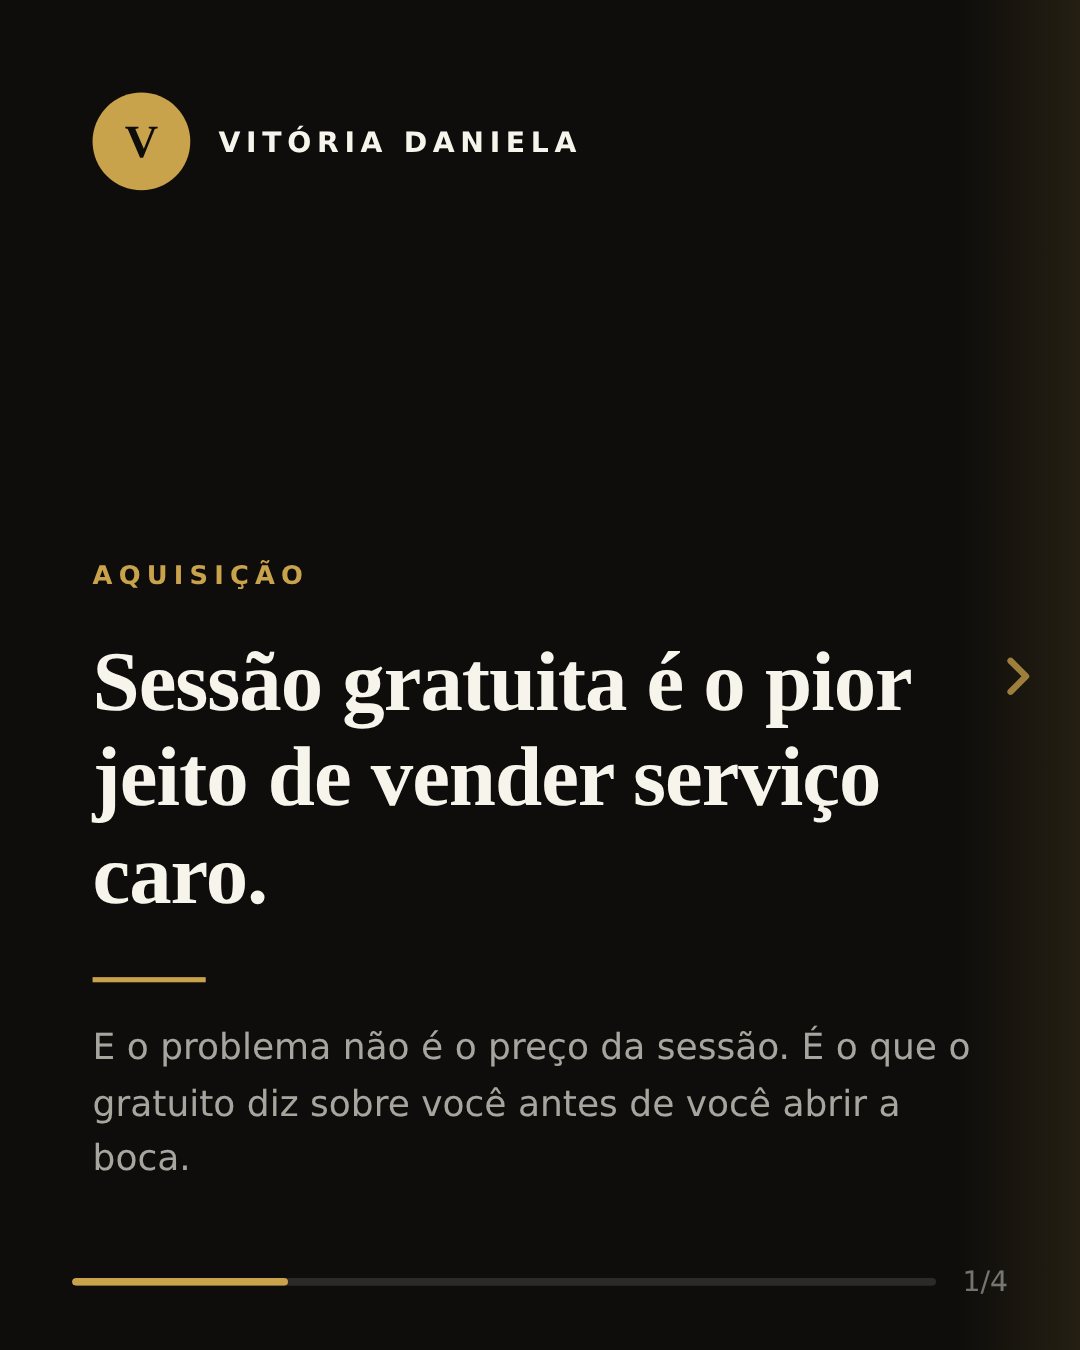
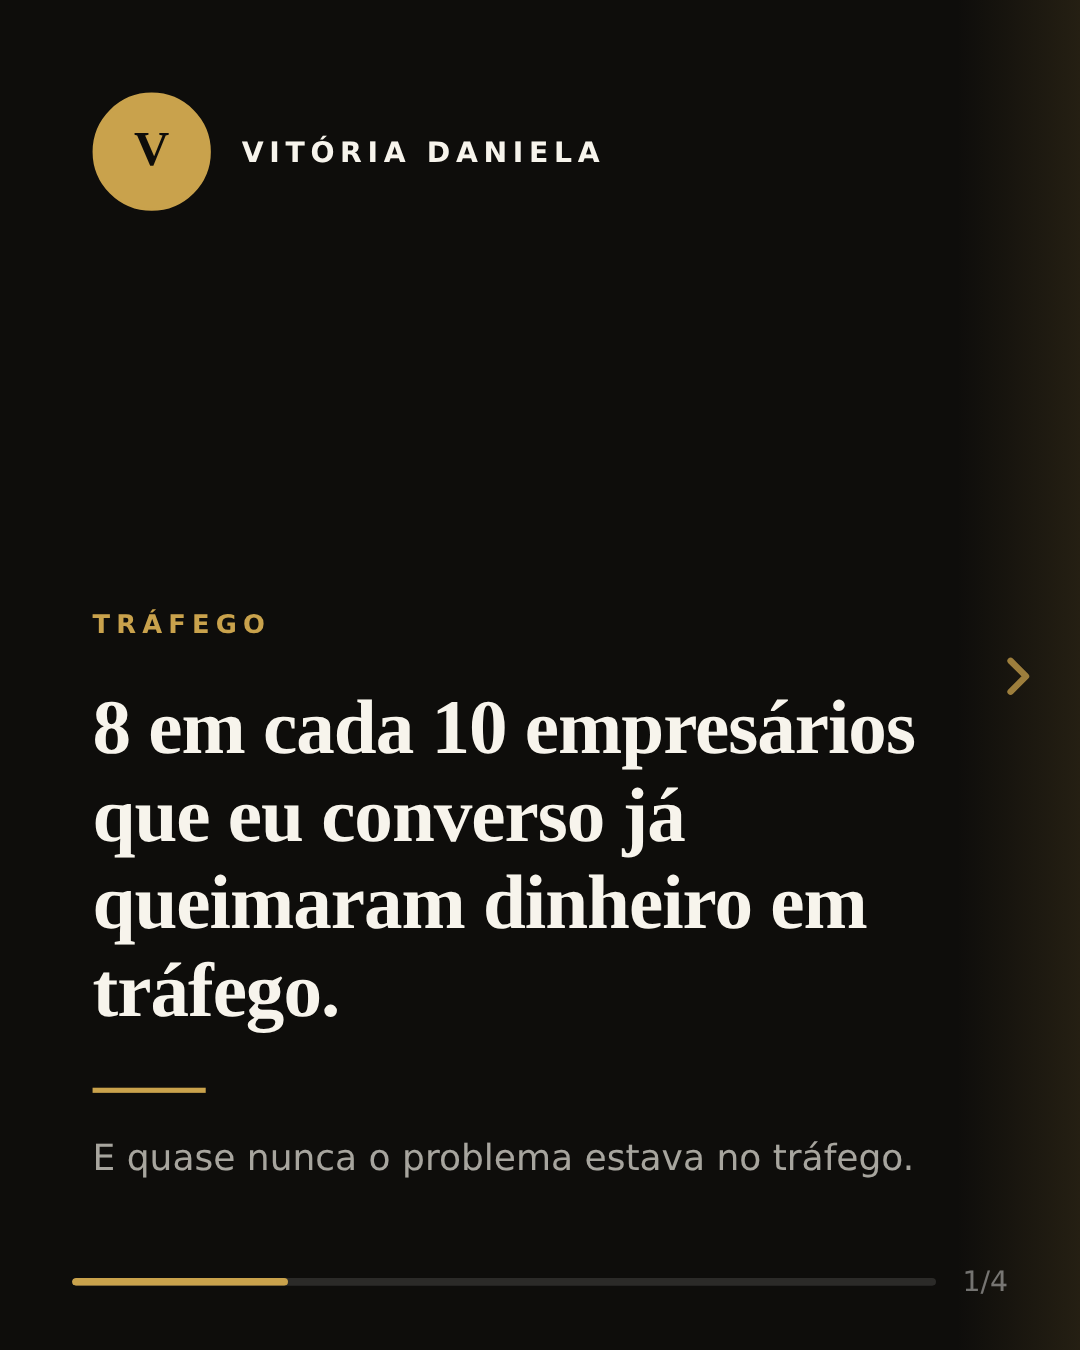
Vitoria Daniela: reescreve o carrossel com as analogias dela e prepara a foto
A primeira versao carregava a analogia da loja de doces, que veio emprestada
da referencia. Trocada pelas metaforas que a propria Vitoria usa na pagina do
Metodo Magna, que sao mais fortes e ja sao voz dela:

- card 2 passa a usar a torneira aberta com vazamentos, nomeando um a um onde
  o dinheiro vaza (perfil, mensagem sem resposta, proposta parada)
- card 3 usa o hospital com o brace sangrando pra sustentar a ordem
  "primeiro se estanca, depois se escala"
- card 1 abre com o dado dela: 8 em cada 10 empresarios ja queimaram dinheiro
  em trafego
- card 4 passa a descrever o funil real dela (aplicacao com analise pessoal em
  menos de 24h) no lugar do diagnostico generico da referencia

O lockup agora aceita a foto dela: basta salvar `foto-vitoria.jpg` na pasta e
reexportar. Sem o arquivo, o onerror remove a img e sobra a inicial, entao a
peca nunca quebra.

Claude-Session: https://claude.ai/code/session_013Sa3HLQHYweprDFbfMtnWK

diff --git a/clientes/vitoria-daniela/copy/2026-08-06-carrossel-sessao-gratuita/carrossel.html b/clientes/vitoria-daniela/copy/2026-08-06-carrossel-sessao-gratuita/carrossel.html
@@ -3,13 +3,17 @@
 <head>
 <meta charset="utf-8">
 <meta name="viewport" content="width=device-width, initial-scale=1">
-<title>Carrossel Vitória Daniela — Sessão gratuita</title>
+<title>Carrossel Vitória Daniela — Onde o dinheiro do tráfego vaza</title>
 
 <!--
   CARROSSEL 4 CARDS · VITÓRIA DANIELA · preto e dourado
-  Tema: por que sessão gratuita é o pior funil para vender serviço caro.
-  Estrutura modelada na referência (gancho de opinião, analogia do mundo real,
-  princípio, CTA), revozeada nas Diretrizes de Escrita da Vitória.
+  Tema: 8 em cada 10 já queimaram dinheiro com tráfego, e o problema não era o tráfego.
+  Analogias e números tirados da própria página do Método Magna.
+
+  FOTO: basta salvar o arquivo `foto-vitoria.jpg` nesta pasta.
+  Se o arquivo existir, ele entra sozinho no lockup. Se não existir, o lockup
+  cai na inicial "V" automaticamente (o onerror remove a img).
+
   Exportar: python3 exportar-slides.py carrossel.html slides/
 -->
 
@@ -23,7 +27,7 @@
 
   .ig-frame { width:420px; background:#fff; border-radius:12px; box-shadow:0 4px 24px rgba(0,0,0,.10); overflow:hidden; }
   .ig-header { display:flex; align-items:center; gap:10px; padding:12px 14px; border-bottom:1px solid #EFEFEF; }
-  .ig-avatar { width:34px; height:34px; border-radius:50%; display:flex; align-items:center; justify-content:center; color:#C9A24C; font-weight:700; font-size:15px; flex-shrink:0; font-family:'Playfair Display',serif; }
+  .ig-avatar { width:34px; height:34px; border-radius:50%; overflow:hidden; display:flex; align-items:center; justify-content:center; color:#C9A24C; font-weight:700; font-size:15px; flex-shrink:0; font-family:'Playfair Display',serif; position:relative; }
   .ig-handle { font-size:13px; font-weight:600; color:#111; line-height:1.3; }
   .ig-sub { font-size:11px; color:#8E8E8E; line-height:1.3; }
 
@@ -75,24 +79,27 @@
 </div>
 
 <script>
-/* ====================== MARCA: preto e dourado ====================== */
+/* ====================== MARCA ====================== */
 const BRAND = {
   nome:    'VITÓRIA DANIELA',
-  handle:  '@vitoriadaniela',      // CONFIRMAR o @ real (não aparece nos PNGs, só no preview)
+  handle:  '@vitoriadaniela',      // CONFIRMAR (não sai nos PNGs, só no preview)
   inicial: 'V',
 
-  primary:     '#C9A24C',   // dourado
-  light:       '#E6C87F',   // dourado claro
-  dark:        '#7A5E1E',   // dourado escuro
-  lightBg:     '#F4F0E6',   // creme quente
+  primary:     '#C9A24C',
+  light:       '#E6C87F',
+  dark:        '#7A5E1E',
+  lightBg:     '#F4F0E6',
   lightBorder: '#E2DAC8',
-  darkBg:      '#0E0D0B',   // preto quente
-  tintaEscura: '#2A2007',   // texto sobre o dourado
+  darkBg:      '#0E0D0B',
+  tintaEscura: '#2A2007',
 };
+
+/* Foto do lockup. Salve `foto-vitoria.jpg` nesta pasta e ela entra sozinha. */
+const FOTO = 'foto-vitoria.jpg';
 
 const LEGENDA = {
   sub:   'Carrossel · 4 cards',
-  texto: 'Sessão gratuita não filtra, convoca. E depois a culpa cai no comercial.',
+  texto: 'O dinheiro não some no anúncio. Ele vaza depois dele.',
 };
 
 const GRADIENTE = `linear-gradient(165deg, ${BRAND.dark} 0%, ${BRAND.primary} 52%, ${BRAND.light} 100%)`;
@@ -113,27 +120,31 @@ function titulo(texto, fundo, tamanho) {
   return `<h2 class="serif" style="font-size:${tamanho || 32}px;font-weight:600;letter-spacing:-0.4px;line-height:1.14;color:${cor};">${texto}</h2>`;
 }
 
-function paragrafo(texto, fundo) {
+function paragrafo(texto, fundo, margemTopo) {
   const cor = fundo === 'light' ? '#6A6152'
             : fundo === 'dark'  ? 'rgba(247,244,236,0.66)'
             : 'rgba(42,32,7,0.78)';
-  return `<p class="sans" style="font-size:14px;font-weight:400;line-height:1.54;color:${cor};margin-top:16px;">${texto}</p>`;
+  return `<p class="sans" style="font-size:14px;font-weight:400;line-height:1.54;color:${cor};margin-top:${margemTopo || 16}px;">${texto}</p>`;
 }
 
-/** Lockup da marca. */
+/**
+ * Lockup com a foto dela. Se `foto-vitoria.jpg` não existir na pasta, o
+ * onerror remove a img e sobra a inicial no círculo dourado.
+ */
 function lockup(fundo) {
   const corTexto  = fundo === 'light' ? BRAND.darkBg : fundo === 'dark' ? '#F7F4EC' : BRAND.tintaEscura;
   const fundoCirc = fundo === 'gradient' ? BRAND.darkBg : BRAND.primary;
   const corInic   = fundo === 'gradient' ? BRAND.primary : BRAND.darkBg;
-  return `<div style="display:flex;align-items:center;gap:11px;">
-    <div style="width:38px;height:38px;border-radius:50%;background:${fundoCirc};display:flex;align-items:center;justify-content:center;flex-shrink:0;">
-      <span class="serif" style="font-size:18px;font-weight:600;color:${corInic};">${BRAND.inicial}</span>
+  const anel      = fundo === 'gradient' ? BRAND.darkBg : BRAND.primary;
+  return `<div style="display:flex;align-items:center;gap:12px;">
+    <div style="position:relative;width:46px;height:46px;border-radius:50%;overflow:hidden;flex-shrink:0;background:${fundoCirc};border:1.5px solid ${anel};display:flex;align-items:center;justify-content:center;">
+      <span class="serif" style="font-size:19px;font-weight:600;color:${corInic};">${BRAND.inicial}</span>
+      <img src="${FOTO}" onerror="this.remove()" style="position:absolute;inset:0;width:100%;height:100%;object-fit:cover;object-position:center 18%;">
     </div>
     <span class="sans" style="font-size:11px;font-weight:600;letter-spacing:2.2px;color:${corTexto};">${BRAND.nome}</span>
   </div>`;
 }
 
-/** Filete dourado, usado como respiro entre gancho e desenvolvimento. */
 function filete(fundo) {
   const cor = fundo === 'gradient' ? 'rgba(42,32,7,0.28)' : BRAND.primary;
   return `<div style="width:44px;height:2px;background:${cor};margin:20px 0 0;"></div>`;
@@ -143,14 +154,12 @@ function botaoCta(texto) {
   return `<div class="sans" style="display:inline-flex;align-items:center;gap:8px;padding:13px 26px;background:${BRAND.darkBg};color:${BRAND.primary};font-weight:600;font-size:13.5px;border-radius:28px;letter-spacing:.2px;">${texto}</div>`;
 }
 
-/* --- Elementos obrigatórios --- */
-
 function barraProgresso(indice, total, fundo) {
   const pct = ((indice + 1) / total) * 100;
   let corTrilho, corPreench, corRotulo;
-  if (fundo === 'light')        { corTrilho='rgba(0,0,0,0.08)';        corPreench=BRAND.primary; corRotulo='rgba(0,0,0,0.32)'; }
-  else if (fundo === 'dark')    { corTrilho='rgba(255,255,255,0.12)';  corPreench=BRAND.primary; corRotulo='rgba(255,255,255,0.42)'; }
-  else                          { corTrilho='rgba(42,32,7,0.18)';      corPreench=BRAND.darkBg;  corRotulo='rgba(42,32,7,0.5)'; }
+  if (fundo === 'light')     { corTrilho='rgba(0,0,0,0.08)';       corPreench=BRAND.primary; corRotulo='rgba(0,0,0,0.32)'; }
+  else if (fundo === 'dark') { corTrilho='rgba(255,255,255,0.12)'; corPreench=BRAND.primary; corRotulo='rgba(255,255,255,0.42)'; }
+  else                       { corTrilho='rgba(42,32,7,0.18)';     corPreench=BRAND.darkBg;  corRotulo='rgba(42,32,7,0.5)'; }
   return `<div style="position:absolute;bottom:0;left:0;right:0;padding:16px 28px 20px;z-index:10;display:flex;align-items:center;gap:10px;">
     <div style="flex:1;height:3px;background:${corTrilho};border-radius:2px;overflow:hidden;">
       <div style="height:100%;width:${pct}%;background:${corPreench};border-radius:2px;"></div>
@@ -172,50 +181,50 @@ function setaSwipe(fundo) {
 /* ====================== OS 4 CARDS ====================== */
 const SLIDES = [
 
-  /* 1 — GANCHO: opinião polêmica. Sem ele os outros não existem. */
+  /* 1 — GANCHO: o dado dela, virado em confronto. */
   { fundo: 'dark', corpo: `
     <div class="slide-content" style="justify-content:space-between;padding:36px 36px 62px;">
       ${lockup('dark')}
       <div>
-        ${tag('AQUISIÇÃO', 'dark')}
-        ${titulo('Sessão gratuita é o pior jeito de vender serviço caro.', 'dark', 33)}
+        ${tag('TRÁFEGO', 'dark')}
+        ${titulo('8 em cada 10 empresários que eu converso já queimaram dinheiro em tráfego.', 'dark', 30)}
         ${filete('dark')}
-        ${paragrafo('E o problema não é o preço da sessão. É o que o gratuito diz sobre você antes de você abrir a boca.', 'dark')}
+        ${paragrafo('E quase nunca o problema estava no tráfego.', 'dark')}
       </div>
     </div>
   `},
 
-  /* 2 — ANALOGIA do mundo real (negócio e dinheiro, como a Diretriz manda). */
+  /* 2 — ANALOGIA DELA: a torneira aberta com vazamentos (está no site). */
   { fundo: 'light', corpo: `
     <div class="slide-content" style="justify-content:flex-end;padding:0 36px 62px;">
-      ${tag('PENSA COMIGO', 'light')}
-      ${titulo('Uma loja de doces dá degustação. E vende um doce de 20 reais.', 'light', 30)}
-      ${paragrafo('Agora imagine um restaurante premium parando gente na calçada com prato de graça.', 'light')}
-      <p class="serif" style="font-size:17px;line-height:1.35;color:${BRAND.dark};font-style:italic;margin-top:18px;">Ninguém desconfia da degustação. Todo mundo desconfia do banquete.</p>
+      ${tag('ONDE O DINHEIRO SOME', 'light')}
+      ${titulo('Anúncio sem estrutura é torneira aberta em cano furado.', 'light', 31)}
+      ${paragrafo('O dinheiro entra pelo anúncio e vaza no caminho. Vaza no perfil que não sustenta a promessa, na mensagem que ninguém responde a tempo, na proposta que fica sem resposta.', 'light')}
+      <p class="serif" style="font-size:17px;line-height:1.35;color:${BRAND.dark};font-style:italic;margin-top:18px;">Você não tem problema de volume. Você tem vazamento.</p>
     </div>
   `},
 
-  /* 3 — CONFRONTO: o diagnóstico, construído junto e sem colo. */
+  /* 3 — PRINCÍPIO: a ordem certa, com a analogia do hospital que ela usa. */
   { fundo: 'dark', corpo: `
     <div class="slide-content" style="justify-content:flex-end;padding:0 36px 62px;">
-      ${tag('O QUE ACONTECE', 'dark')}
-      ${titulo('Grátis não filtra. Grátis convoca.', 'dark', 34)}
+      ${tag('A ORDEM CERTA', 'dark')}
+      ${titulo('Primeiro se estanca. Depois se escala.', 'dark', 34)}
       ${filete('dark')}
-      ${paragrafo('Sua agenda enche de gente que gostou de conversar, não de gente que decidiu resolver.', 'dark')}
-      ${paragrafo('Aí a culpa cai no comercial, no tráfego, no algoritmo. Mas ela começou no anúncio.', 'dark')}
+      ${paragrafo('Ninguém chega no hospital com o braço sangrando e começa treinando condicionamento. Estanca, estabiliza, e só então pensa em performance.', 'dark')}
+      ${paragrafo('Verba a mais em cima de estrutura furada não corrige nada. Só acelera o prejuízo.', 'dark', 12)}
     </div>
   `},
 
-  /* 4 — VIRADA + CTA lógica. Sem seta, barra em 100%. */
+  /* 4 — VIRADA + CTA: o funil real dela (aplicação, análise pessoal em 24h). */
   { fundo: 'gradient', corpo: `
     <div class="slide-content" style="justify-content:space-between;padding:36px 36px 62px;">
       ${lockup('gradient')}
       <div>
-        ${tag('A VIRADA', 'gradient')}
-        ${titulo('O que qualifica não é o preço. É o esforço de entrada.', 'gradient', 30)}
-        ${paragrafo('Quem preenche um formulário, escreve sobre o próprio negócio e espera retorno já decidiu que quer resolver. Quem clica em "agenda grátis" ainda está passeando.', 'gradient')}
-        <div style="margin-top:24px;">
-          ${botaoCta('Deixei o link nos comentários')}
+        ${tag('O PRÓXIMO PASSO', 'gradient')}
+        ${titulo('O primeiro passo não é investir mais. É saber onde está vazando.', 'gradient', 29)}
+        ${paragrafo('Eu analiso pessoalmente cada aplicação e devolvo o direcionamento em menos de 24h. Não é sessão genérica, é leitura do seu momento e dos próximos passos.', 'gradient')}
+        <div style="margin-top:22px;">
+          ${botaoCta('Deixei o link da aplicação nos comentários')}
         </div>
       </div>
     </div>
@@ -246,7 +255,8 @@ track.innerHTML = SLIDES.map(renderSlide).join('');
 
 const avatar = document.getElementById('igAvatar');
 avatar.style.background = BRAND.darkBg;
-avatar.textContent = BRAND.inicial;
+avatar.innerHTML = `<span>${BRAND.inicial}</span>
+  <img src="${FOTO}" onerror="this.remove()" style="position:absolute;inset:0;width:100%;height:100%;object-fit:cover;object-position:center 18%;">`;
 document.getElementById('igHandle').textContent = BRAND.handle;
 document.getElementById('igSub').textContent = LEGENDA.sub;
 document.getElementById('igCaption').innerHTML =

diff --git a/clientes/vitoria-daniela/copy/2026-08-06-carrossel-sessao-gratuita/copy.md b/clientes/vitoria-daniela/copy/2026-08-06-carrossel-sessao-gratuita/copy.md
@@ -1,4 +1,4 @@
-# Carrossel: sessão gratuita é o pior jeito de vender serviço caro
+# Carrossel: onde o dinheiro do tráfego vaza
 
 **Data:** 2026-08-06 · **Formato:** carrossel 4 cards, 1080x1350 · **Identidade:** preto e dourado
 **Arquivos:** `carrossel.html` (fonte editável) · `slides/slide_1..4.png` (prontos pra postar)
@@ -8,101 +8,96 @@
 ## Os 4 cards
 
 ### Card 1 · preto
-**Tag:** AQUISIÇÃO
-**Título:** Sessão gratuita é o pior jeito de vender serviço caro.
-**Corpo:** E o problema não é o preço da sessão. É o que o gratuito diz sobre você antes de você abrir a boca.
+**Tag:** TRÁFEGO
+**Título:** 8 em cada 10 empresários que eu converso já queimaram dinheiro em tráfego.
+**Corpo:** E quase nunca o problema estava no tráfego.
 
 ### Card 2 · creme
-**Tag:** PENSA COMIGO
-**Título:** Uma loja de doces dá degustação. E vende um doce de 20 reais.
-**Corpo:** Agora imagine um restaurante premium parando gente na calçada com prato de graça.
-**Remate:** *Ninguém desconfia da degustação. Todo mundo desconfia do banquete.*
+**Tag:** ONDE O DINHEIRO SOME
+**Título:** Anúncio sem estrutura é torneira aberta em cano furado.
+**Corpo:** O dinheiro entra pelo anúncio e vaza no caminho. Vaza no perfil que não sustenta a promessa, na mensagem que ninguém responde a tempo, na proposta que fica sem resposta.
+**Remate:** *Você não tem problema de volume. Você tem vazamento.*
 
 ### Card 3 · preto
-**Tag:** O QUE ACONTECE
-**Título:** Grátis não filtra. Grátis convoca.
-**Corpo:** Sua agenda enche de gente que gostou de conversar, não de gente que decidiu resolver.
-Aí a culpa cai no comercial, no tráfego, no algoritmo. Mas ela começou no anúncio.
+**Tag:** A ORDEM CERTA
+**Título:** Primeiro se estanca. Depois se escala.
+**Corpo:** Ninguém chega no hospital com o braço sangrando e começa treinando condicionamento. Estanca, estabiliza, e só então pensa em performance.
+Verba a mais em cima de estrutura furada não corrige nada. Só acelera o prejuízo.
 
 ### Card 4 · dourado
-**Tag:** A VIRADA
-**Título:** O que qualifica não é o preço. É o esforço de entrada.
-**Corpo:** Quem preenche um formulário, escreve sobre o próprio negócio e espera retorno já decidiu que quer resolver. Quem clica em "agenda grátis" ainda está passeando.
-**CTA:** Deixei o link nos comentários
+**Tag:** O PRÓXIMO PASSO
+**Título:** O primeiro passo não é investir mais. É saber onde está vazando.
+**Corpo:** Eu analiso pessoalmente cada aplicação e devolvo o direcionamento em menos de 24h. Não é sessão genérica, é leitura do seu momento e dos próximos passos.
+**CTA:** Deixei o link da aplicação nos comentários
 
 ---
 
 ## Legenda do post
 
-> Sessão gratuita é o pior jeito de vender serviço caro.
+> 8 em cada 10 empresários que eu converso já queimaram dinheiro em tráfego.
 >
-> Não é sobre o valor da sessão. É sobre o que o gratuito comunica.
+> E quase nunca o problema estava no tráfego.
 >
-> Degustação funciona para decisão barata. Você prova um doce e decide na hora, com 20 reais no bolso. Ninguém precisa confiar em ninguém para isso.
+> O mercado vendeu a ideia de que basta rodar anúncio ou postar todo dia. Aí a pessoa aumenta a verba, o alcance sobe, o custo por lead até melhora, e a venda não vem.
 >
-> Serviço caro não funciona assim. A pessoa não compra o que você faz, ela compra a certeza de que você resolve. E certeza não se entrega na porta de entrada, se constrói antes.
+> Porque o dinheiro não some no anúncio. Ele vaza depois dele.
 >
-> Quando a porta é grátis e aberta, ela enche. Só que enche de quem gostou da ideia de conversar.
+> Vaza no perfil que promete uma coisa e mostra outra. Vaza na mensagem que fica três dias sem resposta. Vaza na proposta enviada que ninguém retomou. Anúncio sem estrutura é torneira aberta em cano furado, você paga pela água que nunca chega no balde.
 >
-> Aí você olha pra agenda cheia, pro custo por lead ótimo, e pra nenhuma venda. E conclui que o problema é o comercial.
+> E a saída não é abrir mais a torneira.
 >
-> O problema começou no anúncio.
+> Ninguém chega no hospital com o braço sangrando e começa treinando condicionamento. Primeiro se estanca o sangue, depois se estabiliza, e só então se pensa em performance. Com negócio é igual. Escalar em cima de estrutura furada não corrige nada, só acelera o prejuízo.
 >
-> O que qualifica não é o preço que você cobra. É o esforço que a pessoa aceita fazer pra chegar até você. Quem preenche, escreve sobre o próprio negócio e espera retorno já decidiu. Quem clica em "agenda grátis" ainda está passeando.
+> Tenho cliente que gastou 20 mil em tráfego e não teve uma venda. O problema nunca esteve na plataforma.
 >
-> Deixei o link nos comentários.
+> O primeiro passo não é investir mais. É saber onde está vazando.
 >
-> PS: se a sua agenda anda cheia e o seu caixa não muda, o problema não é volume.
+> Deixei o link da aplicação nos comentários. Eu analiso pessoalmente e devolvo o direcionamento em menos de 24h.
+>
+> PS: se o alcance subiu e o caixa não mudou, você já tem a resposta.
 
 ---
 
-## O que veio da referência e o que foi adaptado
+## De onde veio cada peça
 
-A estrutura narrativa é a mesma da referência (thread do Daniel Souza):
-gancho de opinião contrária → analogia do mundo real → princípio → CTA.
+A **estrutura narrativa** é a da referência que o Daniel mandou (gancho de opinião
+contrária, analogia, princípio, CTA), porque ela bate com o que a Diretriz de Escrita da
+Vitória pede: gancho de confronto, analogia do mundo real e raciocínio construído junto.
 
-Ela serve bem à Vitória porque a Diretriz de Escrita pede exatamente isso: gancho de
-opinião ou confronto (nunca pergunta genérica), analogia vinda de negócio e dinheiro
-(nunca de cura ou espiritualidade) e raciocínio construído junto, com premissas, em vez de
-diagnóstico imposto.
+O **conteúdo** é todo dela, tirado da página do Método Magna:
 
-**Três coisas da referência foram trocadas porque violam a Diretriz dela:**
+| Elemento | Origem literal no site |
+| --- | --- |
+| "8 em cada 10 empresários" | "De 10 empresários que converso, 8 já gastaram horrores em profissionais meia boca, ou eles próprios já investiram rios de dinheiro em tráfego pago e só queimaram dinheiro" |
+| Torneira e vazamentos (card 2) | "Se as peças não se conectam, você está com uma torneira aberta (de tempo e dinheiro) enquanto tem vários vazamentos no meio do caminho" |
+| Hospital e braço sangrando (card 3) | "se uma pessoa chega no hospital com o braço sangrando muito, a prioridade absoluta do médico é estancar o sangue... Primeiro você resolve a urgência. Depois que o corpo está estabilizado, aí sim você foca em deixá-lo mais forte" |
+| 20 mil sem uma venda (legenda) | "Tenho um cliente que gastou 20 mil em tráfego e não teve UMA venda" |
+| CTA do card 4 | "Eu pessoalmente quero analisar, te direcionar e planejarmos os proximos passos, em menos de 24h" |
 
-| Referência | Por que não passa | O que ficou |
-| --- | --- | --- |
-| "Clique no link que eu preparei um diagnóstico" | Imperativo. "CTA não é ordem, é lógica" | "Deixei o link nos comentários" (a formulação que a própria Diretriz usa como exemplo) |
-| "começar a escalar sua mentoria para seis dígitos por mês" | Promessa numérica. "Não prometer nada. Prova e coerência vendem" | Nenhuma promessa. O card 4 descreve um critério, não um resultado |
-| Público de "mentorias" | O ICP dela é profissional experiente com autoridade offline, não infoprodutor | Linguagem de agenda, comercial e caixa, que é o vocabulário do ICP real |
-
-**Por que este tema:** o assunto é o próprio problema que ela levantou na reunião, o de
-atrair gente desqualificada com métrica boa. Ela fala com autoridade porque está vivendo
-isso, e o carrossel já posiciona a lógica de aplicação com qualificação que o Método Magna
-usa, em vez de sessão aberta.
-
-**Sem foto nesta peça.** O argumento é o produto e a sequência é de raciocínio, igual à
-referência. Foto na capa competiria com o gancho. Se quisermos versão com ela, o lugar é o
-card 4, junto do lockup.
+**O que foi descartado da referência:** a analogia da loja de doces e do restaurante (não é
+dela, e ela já tem metáforas melhores no próprio site), o CTA imperativo "clique no link" e
+a promessa numérica "seis dígitos por mês".
 
 ---
 
 ## Checklist da Diretriz (validado)
 
-- [x] Gancho é opinião e confronto, não pergunta genérica
-- [x] Card 1 puxa o card 2, e cada card abre uma pergunta que o próximo responde
-- [x] Big idea sustentada por premissas (degustação, banquete, esforço de entrada)
-- [x] Antítese como elemento de copy ("Grátis não filtra. Grátis convoca.")
-- [x] CTA lógica e específica, nunca imperativa
-- [x] Nenhuma palavra da lista proibida, nenhum vocabulário terapêutico
-- [x] Nenhum travessão
+- [x] Gancho é dado específico e confronto, não pergunta genérica
+- [x] Analogia vinda de negócio, dinheiro e corpo, nunca de cura, alma ou sombra
+- [x] Raciocínio construído junto, sem diagnóstico imposto
+- [x] Especificidade em vez de categoria genérica (os vazamentos são nomeados um a um)
+- [x] CTA lógica, nunca imperativa
 - [x] Nenhuma promessa de resultado
-- [x] Fala com profissional experiente, não com iniciante
+- [x] Nenhuma palavra da lista proibida, nenhum travessão
+- [x] Fala com profissional experiente que já investe, não com iniciante
 - [x] Último card sem seta, barra em 100%
 
 ---
 
 ## Pendências
 
-- **Confirmar o @ dela.** Usei `@vitoriadaniela` no preview. Não aparece nos PNGs (só no
-  frame do Instagram), então não bloqueia a publicação, mas precisa acertar antes de virar padrão.
-- **Confirmar o dourado exato da marca.** Usei `#C9A24C` com preto quente `#0E0D0B`. Se
-  existir um hex oficial, troco no objeto `BRAND` e reexporto em um minuto.
+- **A foto no lockup.** O HTML já está pronto para ela: basta salvar o arquivo como
+  `foto-vitoria.jpg` nesta pasta e reexportar. Se o arquivo não existir, o lockup cai
+  sozinho na inicial "V", então a peça nunca quebra.
+- **Confirmar o dourado oficial.** Usei `#C9A24C` sobre preto `#0E0D0B`.
+- **Confirmar o @ dela.** Só aparece no preview, não sai nos PNGs.
